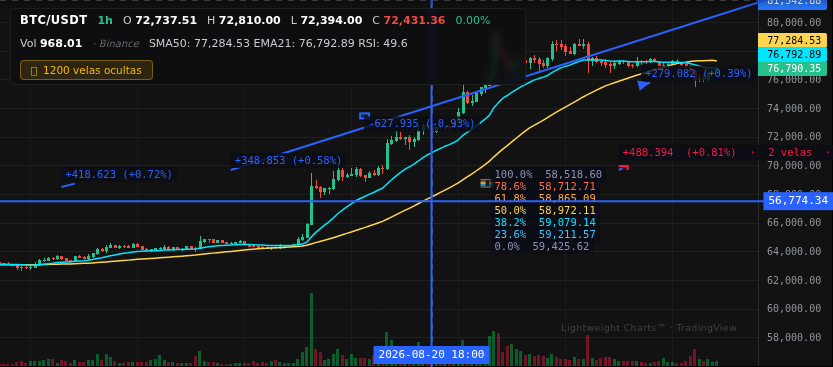
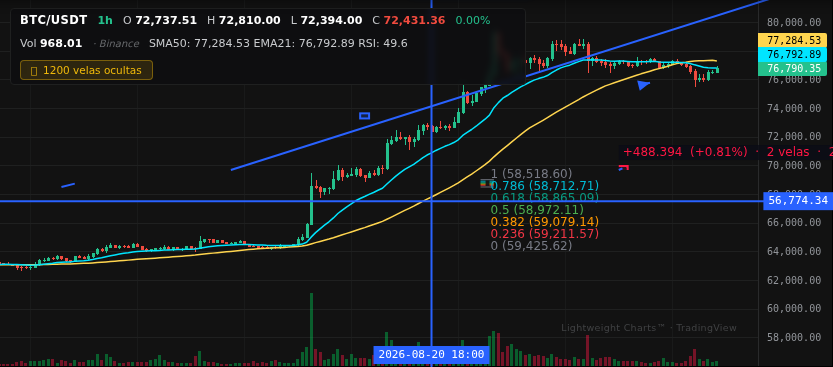
Dibujos con el aspecto de TradingView: Fibonacci con sus colores y formato 0.618 (precio), sin etiquetas de variacion en lineas ni cajas, asas blancas circulares, fuente de TradingView; captura actualizada

diff --git a/bar-replay-pro-unico.html b/bar-replay-pro-unico.html
@@ -9355,9 +9355,10 @@ window.BRP_SNAPSHOT = {"savedAt":"2026-10-07 19:19 UTC","note":"Velas reales de 
   const DT = {};
 
   const FIB_LEVELS = [
-    { r: 0, color: '#8d93b5' }, { r: 0.236, color: '#40c4ff' }, { r: 0.382, color: '#00e5ff' },
-    { r: 0.5, color: '#ffd54f' }, { r: 0.618, color: '#ffab40' }, { r: 0.786, color: '#ff7043' },
-    { r: 1, color: '#8d93b5' },
+    // Colores por defecto de TradingView (gris, rojo, naranja, verde, verde azulado, cian, gris)
+    { r: 0, color: '#787b86' }, { r: 0.236, color: '#f23645' }, { r: 0.382, color: '#ff9800' },
+    { r: 0.5, color: '#4caf50' }, { r: 0.618, color: '#089981' }, { r: 0.786, color: '#00bcd4' },
+    { r: 1, color: '#787b86' },
   ];
 
   const TYPE_NAMES = {
@@ -9374,6 +9375,7 @@ window.BRP_SNAPSHOT = {"savedAt":"2026-10-07 19:19 UTC","note":"Velas reales de 
   DT.canvas = null;
   DT.ctx = null;
   DT.dpr = 1;
+  DT.TV_FUENTE = "12px -apple-system, BlinkMacSystemFont, 'Trebuchet MS', Roboto, Ubuntu, sans-serif";
   DT.TV_AZUL = '#2962FF';    // color por defecto de los dibujos nuevos (TradingView)
   /* Herramientas que se pueden dibujar apretando, arrastrando y soltando (como en TradingView).
      El canal necesita además un 3er clic para el ancho; la carta de puntos (camino) sigue a clics. */
@@ -10674,7 +10676,6 @@ window.BRP_SNAPSHOT = {"savedAt":"2026-10-07 19:19 UTC","note":"Velas reales de 
         if (a && b) {
           // Como TradingView: segmento entre los dos puntos, sin proyección por defecto.
           ctx.beginPath(); ctx.moveTo(a.x, a.y); ctx.lineTo(b.x, b.y); ctx.stroke();
-          DT._label(ctx, DT._deltaLabel(d), Math.min(a.x, b.x), Math.min(a.y, b.y) - 6, d.color);
         }
         break;
       }
@@ -10685,7 +10686,6 @@ window.BRP_SNAPSHOT = {"savedAt":"2026-10-07 19:19 UTC","note":"Velas reales de 
           const L = Math.hypot(dx, dy) || 1;
           const k = (w * 2) / L;
           ctx.beginPath(); ctx.moveTo(a.x, a.y); ctx.lineTo(a.x + dx * k, a.y + dy * k); ctx.stroke();
-          DT._label(ctx, DT._deltaLabel(d), a.x, a.y - 6, d.color);
         }
         break;
       }
@@ -10698,7 +10698,6 @@ window.BRP_SNAPSHOT = {"savedAt":"2026-10-07 19:19 UTC","note":"Velas reales de 
           ctx.fillRect(x1, y1, rw, rh);
           ctx.globalAlpha = 1;
           ctx.strokeRect(x1, y1, rw, rh);
-          DT._label(ctx, DT._deltaLabel(d), x1 + 4, y1 + 14, d.color);
         }
         break;
       }
@@ -10714,7 +10713,6 @@ window.BRP_SNAPSHOT = {"savedAt":"2026-10-07 19:19 UTC","note":"Velas reales de 
           ctx.globalAlpha = 1;
           ctx.beginPath(); ctx.moveTo(a.x, a.y); ctx.lineTo(b.x, b.y); ctx.stroke();
           ctx.beginPath(); ctx.moveTo(a.x, a.y + dy); ctx.lineTo(b.x, b.y + dy); ctx.stroke();
-          DT._label(ctx, 'Canal', Math.min(a.x, b.x), Math.min(a.y, b.y + dy) - 7, d.color);
         }
         break;
       }
@@ -10751,7 +10749,7 @@ window.BRP_SNAPSHOT = {"savedAt":"2026-10-07 19:19 UTC","note":"Velas reales de 
             ctx.setLineDash(l.r === 0 || l.r === 1 ? [] : [5, 4]);
             ctx.beginPath(); ctx.moveTo(x1, y); ctx.lineTo(x2, y); ctx.stroke();
             ctx.restore();
-            DT._label(ctx, `${(l.r * 100).toFixed(1)}%  ${price ? U.fmtPrice(price) : ''}`,
+            DT._label(ctx, `${String(l.r)}${price ? ` (${U.fmtPrice(price)})` : ''}`,   // formato de TradingView: 0.618 (precio)
                       x1 + 10, etiquetaY[i], l.color);
           });
         }
@@ -10776,7 +10774,7 @@ window.BRP_SNAPSHOT = {"savedAt":"2026-10-07 19:19 UTC","note":"Velas reales de 
           const pct = pa.price ? (dp / pa.price) * 100 : 0;
           const bars = Math.round((pb.dtime - pa.dtime) / DT._tfSeconds());
           const txt = `${dp > 0 ? '+' : ''}${U.fmtPrice(dp)}  (${pct > 0 ? '+' : ''}${U.num(pct, 2)}%)  ·  ${bars} velas  ·  ${U.fmtDuration(Math.min(pa.dtime, pb.dtime), Math.max(pa.dtime, pb.dtime))}`;
-          DT._label(ctx, txt, Math.min(a.x, b.x), Math.min(a.y, b.y) - 10, col);
+          DT._label(ctx, txt, Math.min(a.x, b.x), Math.min(a.y, b.y) - 10, col, true);
         }
         break;
       }
@@ -10789,7 +10787,6 @@ window.BRP_SNAPSHOT = {"savedAt":"2026-10-07 19:19 UTC","note":"Velas reales de 
           ctx.beginPath(); ctx.ellipse(cx, cy, rx, ry, 0, 0, Math.PI * 2); ctx.fill();
           ctx.globalAlpha = 1;
           ctx.beginPath(); ctx.ellipse(cx, cy, rx, ry, 0, 0, Math.PI * 2); ctx.stroke();
-          DT._label(ctx, DT._deltaLabel(d), Math.min(a.x, b.x), Math.min(a.y, b.y) - 6, d.color);
         }
         break;
       }
@@ -10807,7 +10804,6 @@ window.BRP_SNAPSHOT = {"savedAt":"2026-10-07 19:19 UTC","note":"Velas reales de 
           ctx.lineTo(b.x - L * Math.cos(ang + abanico), b.y - L * Math.sin(ang + abanico));
           ctx.closePath();
           ctx.fillStyle = d.color; ctx.fill();
-          DT._label(ctx, DT._deltaLabel(d), Math.min(a.x, b.x), Math.min(a.y, b.y) - 6, d.color);
         }
         break;
       }
@@ -10843,13 +10839,8 @@ window.BRP_SNAPSHOT = {"savedAt":"2026-10-07 19:19 UTC","note":"Velas reales de 
       d.points.forEach((p) => {
         const s = DT._screenPoint(p);
         if (!s) return;
-        if (DT.LINEAS_TV.includes(d.type)) {   // asa circular blanca con borde del color, como TradingView
-          ctx.fillStyle = '#ffffff'; ctx.strokeStyle = d.color || DT.TV_AZUL; ctx.lineWidth = 2;
-          ctx.beginPath(); ctx.arc(s.x, s.y, 4.5, 0, Math.PI * 2); ctx.fill(); ctx.stroke();
-          return;
-        }
-        ctx.fillStyle = '#0a0a0b'; ctx.strokeStyle = '#00e5ff'; ctx.lineWidth = 1.5;
-        ctx.beginPath(); ctx.rect(s.x - 4, s.y - 4, 8, 8); ctx.fill(); ctx.stroke();
+        ctx.fillStyle = '#ffffff'; ctx.strokeStyle = d.color || DT.TV_AZUL; ctx.lineWidth = 2;   // asa como TradingView
+        ctx.beginPath(); ctx.arc(s.x, s.y, 4.5, 0, Math.PI * 2); ctx.fill(); ctx.stroke();
       });
       ctx.restore();
     }
@@ -10885,15 +10876,17 @@ window.BRP_SNAPSHOT = {"savedAt":"2026-10-07 19:19 UTC","note":"Velas reales de 
     ctx.restore();
   };
 
-  DT._label = function (ctx, text, x, y, color) {
+  DT._label = function (ctx, text, x, y, color, conFondo) {
     if (!text) return;
     ctx.save();
-    ctx.font = '10.5px ui-monospace, monospace';
-    const w = ctx.measureText(text).width + 8;
-    ctx.fillStyle = 'rgba(11,12,22,.82)';
-    ctx.fillRect(x, y - 11, w, 15);
+    ctx.font = DT.TV_FUENTE;
+    if (conFondo) {
+      const w = ctx.measureText(text).width + 8;
+      ctx.fillStyle = 'rgba(11,12,22,.82)';
+      ctx.fillRect(x, y - 11, w, 15);
+    }
     ctx.fillStyle = color || '#e8eaf6';
-    ctx.fillText(text, x + 4, y);
+    ctx.fillText(text, x + (conFondo ? 4 : 0), y);
     ctx.restore();
   };
 

diff --git a/js/drawingTools.js b/js/drawingTools.js
@@ -24,9 +24,10 @@
   const DT = {};
 
   const FIB_LEVELS = [
-    { r: 0, color: '#8d93b5' }, { r: 0.236, color: '#40c4ff' }, { r: 0.382, color: '#00e5ff' },
-    { r: 0.5, color: '#ffd54f' }, { r: 0.618, color: '#ffab40' }, { r: 0.786, color: '#ff7043' },
-    { r: 1, color: '#8d93b5' },
+    // Colores por defecto de TradingView (gris, rojo, naranja, verde, verde azulado, cian, gris)
+    { r: 0, color: '#787b86' }, { r: 0.236, color: '#f23645' }, { r: 0.382, color: '#ff9800' },
+    { r: 0.5, color: '#4caf50' }, { r: 0.618, color: '#089981' }, { r: 0.786, color: '#00bcd4' },
+    { r: 1, color: '#787b86' },
   ];
 
   const TYPE_NAMES = {
@@ -43,6 +44,7 @@
   DT.canvas = null;
   DT.ctx = null;
   DT.dpr = 1;
+  DT.TV_FUENTE = "12px -apple-system, BlinkMacSystemFont, 'Trebuchet MS', Roboto, Ubuntu, sans-serif";
   DT.TV_AZUL = '#2962FF';    // color por defecto de los dibujos nuevos (TradingView)
   /* Herramientas que se pueden dibujar apretando, arrastrando y soltando (como en TradingView).
      El canal necesita además un 3er clic para el ancho; la carta de puntos (camino) sigue a clics. */
@@ -1343,7 +1345,6 @@
         if (a && b) {
           // Como TradingView: segmento entre los dos puntos, sin proyección por defecto.
           ctx.beginPath(); ctx.moveTo(a.x, a.y); ctx.lineTo(b.x, b.y); ctx.stroke();
-          DT._label(ctx, DT._deltaLabel(d), Math.min(a.x, b.x), Math.min(a.y, b.y) - 6, d.color);
         }
         break;
       }
@@ -1354,7 +1355,6 @@
           const L = Math.hypot(dx, dy) || 1;
           const k = (w * 2) / L;
           ctx.beginPath(); ctx.moveTo(a.x, a.y); ctx.lineTo(a.x + dx * k, a.y + dy * k); ctx.stroke();
-          DT._label(ctx, DT._deltaLabel(d), a.x, a.y - 6, d.color);
         }
         break;
       }
@@ -1367,7 +1367,6 @@
           ctx.fillRect(x1, y1, rw, rh);
           ctx.globalAlpha = 1;
           ctx.strokeRect(x1, y1, rw, rh);
-          DT._label(ctx, DT._deltaLabel(d), x1 + 4, y1 + 14, d.color);
         }
         break;
       }
@@ -1383,7 +1382,6 @@
           ctx.globalAlpha = 1;
           ctx.beginPath(); ctx.moveTo(a.x, a.y); ctx.lineTo(b.x, b.y); ctx.stroke();
           ctx.beginPath(); ctx.moveTo(a.x, a.y + dy); ctx.lineTo(b.x, b.y + dy); ctx.stroke();
-          DT._label(ctx, 'Canal', Math.min(a.x, b.x), Math.min(a.y, b.y + dy) - 7, d.color);
         }
         break;
       }
@@ -1420,7 +1418,7 @@
             ctx.setLineDash(l.r === 0 || l.r === 1 ? [] : [5, 4]);
             ctx.beginPath(); ctx.moveTo(x1, y); ctx.lineTo(x2, y); ctx.stroke();
             ctx.restore();
-            DT._label(ctx, `${(l.r * 100).toFixed(1)}%  ${price ? U.fmtPrice(price) : ''}`,
+            DT._label(ctx, `${String(l.r)}${price ? ` (${U.fmtPrice(price)})` : ''}`,   // formato de TradingView: 0.618 (precio)
                       x1 + 10, etiquetaY[i], l.color);
           });
         }
@@ -1445,7 +1443,7 @@
           const pct = pa.price ? (dp / pa.price) * 100 : 0;
           const bars = Math.round((pb.dtime - pa.dtime) / DT._tfSeconds());
           const txt = `${dp > 0 ? '+' : ''}${U.fmtPrice(dp)}  (${pct > 0 ? '+' : ''}${U.num(pct, 2)}%)  ·  ${bars} velas  ·  ${U.fmtDuration(Math.min(pa.dtime, pb.dtime), Math.max(pa.dtime, pb.dtime))}`;
-          DT._label(ctx, txt, Math.min(a.x, b.x), Math.min(a.y, b.y) - 10, col);
+          DT._label(ctx, txt, Math.min(a.x, b.x), Math.min(a.y, b.y) - 10, col, true);
         }
         break;
       }
@@ -1458,7 +1456,6 @@
           ctx.beginPath(); ctx.ellipse(cx, cy, rx, ry, 0, 0, Math.PI * 2); ctx.fill();
           ctx.globalAlpha = 1;
           ctx.beginPath(); ctx.ellipse(cx, cy, rx, ry, 0, 0, Math.PI * 2); ctx.stroke();
-          DT._label(ctx, DT._deltaLabel(d), Math.min(a.x, b.x), Math.min(a.y, b.y) - 6, d.color);
         }
         break;
       }
@@ -1476,7 +1473,6 @@
           ctx.lineTo(b.x - L * Math.cos(ang + abanico), b.y - L * Math.sin(ang + abanico));
           ctx.closePath();
           ctx.fillStyle = d.color; ctx.fill();
-          DT._label(ctx, DT._deltaLabel(d), Math.min(a.x, b.x), Math.min(a.y, b.y) - 6, d.color);
         }
         break;
       }
@@ -1512,13 +1508,8 @@
       d.points.forEach((p) => {
         const s = DT._screenPoint(p);
         if (!s) return;
-        if (DT.LINEAS_TV.includes(d.type)) {   // asa circular blanca con borde del color, como TradingView
-          ctx.fillStyle = '#ffffff'; ctx.strokeStyle = d.color || DT.TV_AZUL; ctx.lineWidth = 2;
-          ctx.beginPath(); ctx.arc(s.x, s.y, 4.5, 0, Math.PI * 2); ctx.fill(); ctx.stroke();
-          return;
-        }
-        ctx.fillStyle = '#0a0a0b'; ctx.strokeStyle = '#00e5ff'; ctx.lineWidth = 1.5;
-        ctx.beginPath(); ctx.rect(s.x - 4, s.y - 4, 8, 8); ctx.fill(); ctx.stroke();
+        ctx.fillStyle = '#ffffff'; ctx.strokeStyle = d.color || DT.TV_AZUL; ctx.lineWidth = 2;   // asa como TradingView
+        ctx.beginPath(); ctx.arc(s.x, s.y, 4.5, 0, Math.PI * 2); ctx.fill(); ctx.stroke();
       });
       ctx.restore();
     }
@@ -1554,15 +1545,17 @@
     ctx.restore();
   };
 
-  DT._label = function (ctx, text, x, y, color) {
+  DT._label = function (ctx, text, x, y, color, conFondo) {
     if (!text) return;
     ctx.save();
-    ctx.font = '10.5px ui-monospace, monospace';
-    const w = ctx.measureText(text).width + 8;
-    ctx.fillStyle = 'rgba(11,12,22,.82)';
-    ctx.fillRect(x, y - 11, w, 15);
+    ctx.font = DT.TV_FUENTE;
+    if (conFondo) {
+      const w = ctx.measureText(text).width + 8;
+      ctx.fillStyle = 'rgba(11,12,22,.82)';
+      ctx.fillRect(x, y - 11, w, 15);
+    }
     ctx.fillStyle = color || '#e8eaf6';
-    ctx.fillText(text, x + 4, y);
+    ctx.fillText(text, x + (conFondo ? 4 : 0), y);
     ctx.restore();
   };
 

diff --git a/tests/dibujos-medir.test.js b/tests/dibujos-medir.test.js
@@ -41,7 +41,7 @@ function ok(cond, msg) { if (cond) { pass++; console.log('  ✓ ' + msg); } else
     return out;
   });
   ok(niveles.length >= 7, `se dibujan los 7 niveles (${niveles.length})`);
-  ok(niveles.every((t) => /%\s+[\d.,]+/.test(t) && !/undefined|NaN/.test(t)), `cada nivel lleva su precio («${niveles[0]}»)`);
+  ok(niveles.every((t) => /\(\s*[\d.,]+\)/.test(t) && !/undefined|NaN/.test(t)), `cada nivel lleva su precio («${niveles[0]}»)`);
   console.log(`\nHerramienta medir: ${pass} superadas, ${fail} fallidas`);
   await b.close();
   process.exit(fail ? 1 : 0);
